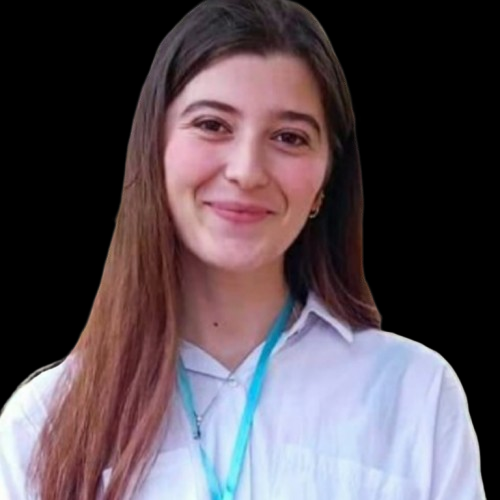
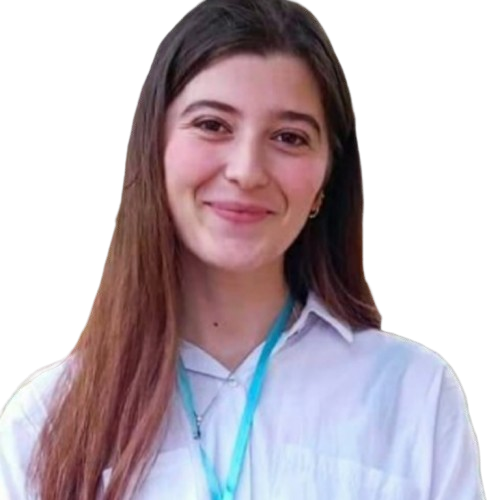
changing background

diff --git a/src/components/Hero.jsx b/src/components/Hero.jsx
@@ -8,13 +8,28 @@ const Hero = () => {
     <div className="flex flex-col md:flex-row justify-between items-center p-4 gap-2">
 
   {/* Image */}
-  <div className="flex justify-center">
-    <img
-      src={nina}
-      alt="nina mck"
-      className="   w-80 h-80  md:h-90 md:w-90 object-cover border border-stone-700 rounded-4xl shadow-2xl"
+  <div className="flex justify-center relative ">
+  {/* blob en arrière-plan */}
+  <svg
+    className="absolute w-[420px] h-[420px]  -z-10 text-purple-500 opacity-80"
+    viewBox="0 0 200 200"
+    xmlns="http://www.w3.org/2000/svg"
+  >
+    <path
+      fill="currentColor"
+      d="M39.5,-66.7C50.9,-60.7,61.5,-51.1,68.4,-39.2C75.3,-27.3,78.6,-13.6,77.8,-0.3C77,13,72.1,26.1,64,36.7C55.9,47.3,44.6,55.4,32.1,61.3C19.5,67.2,5.7,70.8,-7.6,71.6C-20.9,72.5,-33.7,70.7,-45,63.9C-56.3,57,-66.1,45.2,-70.9,31.8C-75.7,18.4,-75.6,3.4,-72.3,-10.3C-69.1,-23.9,-62.8,-36.1,-52.5,-44.7C-42.1,-53.2,-27.7,-58,-13.1,-63.7C1.5,-69.3,15.6,-75.8,29.8,-74.3C44.1,-72.9,58.6,-63.4,39.5,-66.7Z"
+      transform="translate(100 100)"
     />
-  </div>
+  </svg>
+
+  {/* ton image */}
+  <img
+    src={nina}
+    alt="nina mck"
+    className="w-80 h-80 object-cover rounded-full   "
+  />
+</div>
+
 
   {/* Texte */}
   <div className="tracking-tight text-center md:text-left text-gray-600">

diff --git a/src/components/Navbar.jsx b/src/components/Navbar.jsx
@@ -1,12 +1,16 @@
 import React from "react";
 import { FaLinkedin , FaGithub} from "react-icons/fa";
+import logo from "../assets/logo.png";
 function Navbar() {
   return (
     
    
     <div className="flex flex-col gap-7 md:flex-row items-center justify-between py-2 px-4">
     {/* Logo */}
-    <div className="text-xl font-bold">Logo</div>
+    <div className="  w-20 h-20">
+      
+      <img src={logo} alt="" />
+    </div>
   
     {/* Icônes */}
     <div className="flex gap-4 mt-2 text-gray-600 md:mt-0">
